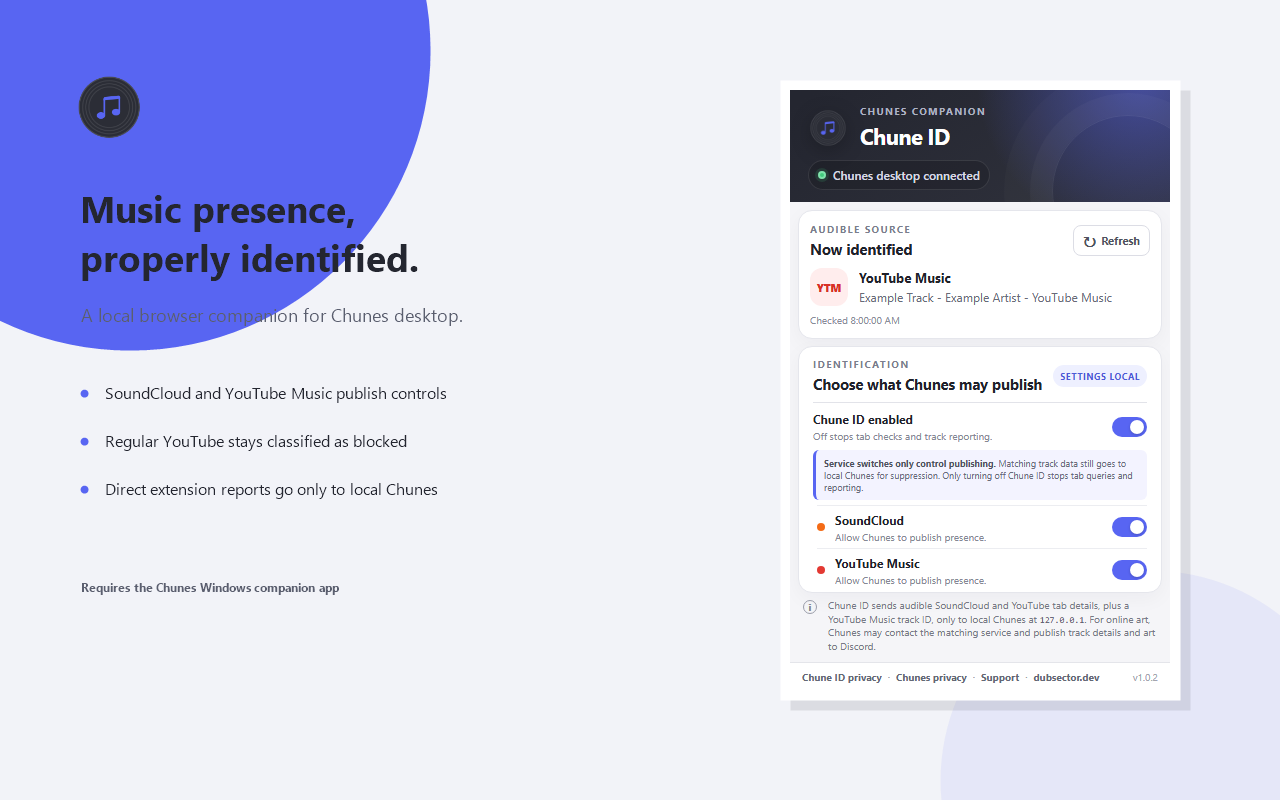
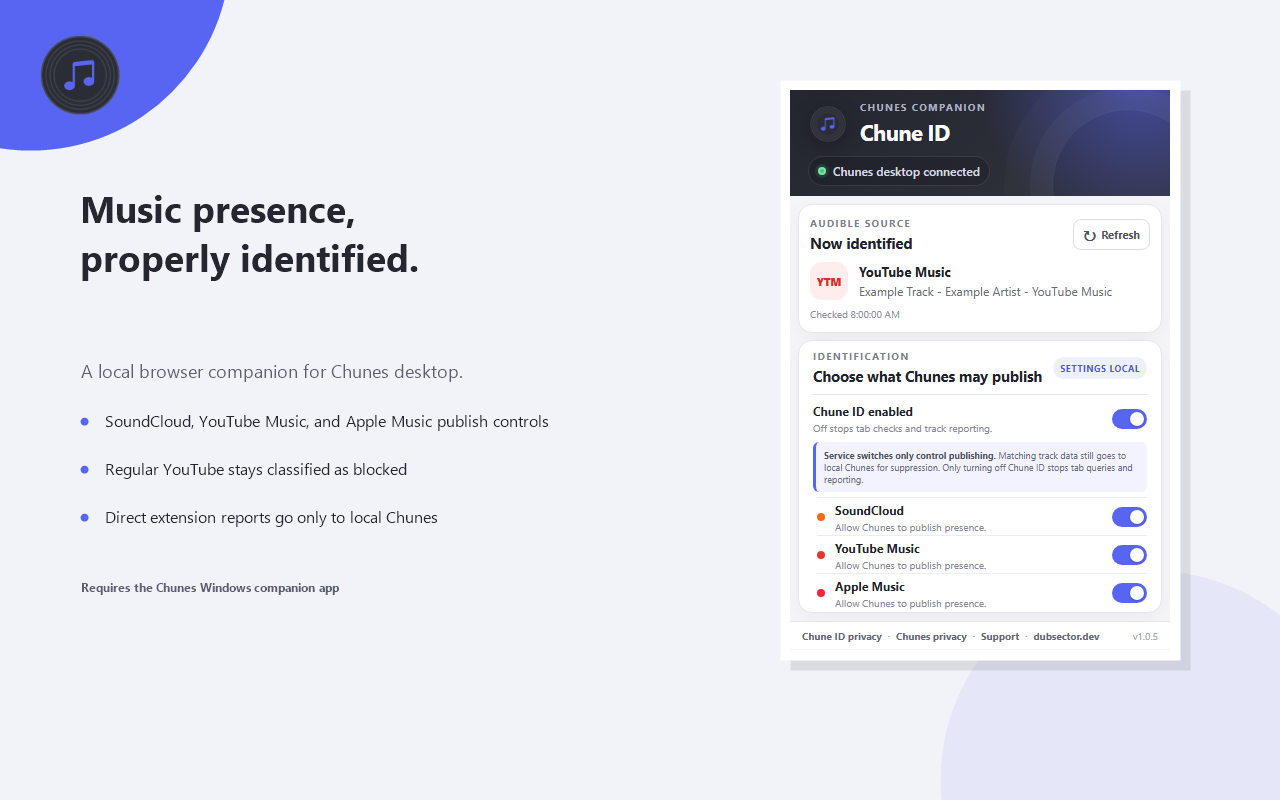
Prepare Chune ID 1.0.5 (#22)
Bumps manifest and popup version to 1.0.5 for the real-track-display
update, moves the store submission material and pinned package hash
forward, and regenerates the store screenshot fixture.

Also fixes the screenshot fixture itself: the subtitle and title text
crossed the decorative circle's edge in ways that ranged from illegible
to just visually awkward, the "CHUNE ID" eyebrow label was rendered
invisible (purple text on the identical purple fill), the popup capture
height didn't match its natural content height leaving a dead zone at
the bottom of the card, and the feature list never mentioned Apple
Music support.

Changed region(s): [[0.0, 0.0, 0.4062, 0.6562], [0.625, 0.4375, 0.9375, 0.875], [0.625, 0.125, 0.9062, 0.4062]]

diff --git a/popup.html b/popup.html
@@ -108,7 +108,7 @@
       <a href="https://github.com/getchunes/chunes-extension/issues" target="_blank" rel="noreferrer">Support</a>
       <span aria-hidden="true">&middot;</span>
       <a href="https://dubsector.dev" target="_blank" rel="noreferrer">dubsector.dev</a>
-      <span class="version">v1.0.4</span>
+      <span class="version">v1.0.5</span>
     </footer>
   </body>
 </html>

diff --git a/store/DASHBOARD_CHECKLIST.md b/store/DASHBOARD_CHECKLIST.md
@@ -3,18 +3,18 @@
 These steps require a maintainer in the Chrome Web Store dashboard and are not
 performed by the release scripts.
 
-## Version 1.0.4 Coordination
+## Version 1.0.5 Coordination
 
-- [ ] Leave the previously submitted Chrome Web Store version 1.0.0 and the immutable 1.0.0, 1.0.1, 1.0.2, and 1.0.3 GitHub artifacts unchanged.
-- [ ] Confirm `manifest.json` and the popup both show version 1.0.4.
-- [ ] Confirm the new GitHub `v1.0.4` release is immutable and its tag resolves to the reviewed release commit.
-- [ ] Confirm the matching Chunes desktop 1.0.1 release uses protocol 2 and clearly states whether its MSI is signed or unsigned manual-only.
+- [ ] Leave the previously submitted Chrome Web Store version 1.0.0 and the immutable 1.0.0, 1.0.1, 1.0.2, 1.0.3, and 1.0.4 GitHub artifacts unchanged.
+- [ ] Confirm `manifest.json` and the popup both show version 1.0.5.
+- [ ] Confirm the new GitHub `v1.0.5` release is immutable and its tag resolves to the reviewed release commit.
+- [ ] Confirm the matching Chunes desktop release uses protocol 2 and clearly states whether its MSI is signed or unsigned manual-only.
 
 ## Package
 
 - [ ] Run `scripts/validate.ps1`, `scripts/package.ps1`, and `scripts/validate-package.ps1` from the repository root.
-- [ ] Upload `dist/chune-id-1.0.4.zip` and confirm the dashboard detects Manifest V3, version 1.0.4, and minimum Chrome version 120.
[1 lines of base64/hex data omitted]
+- [ ] Upload `dist/chune-id-1.0.5.zip` and confirm the dashboard detects Manifest V3, version 1.0.5, and minimum Chrome version 120.
[1 lines of base64/hex data omitted]
 
 ## Store Listing
 

diff --git a/store/SUBMISSION.md b/store/SUBMISSION.md
@@ -11,7 +11,7 @@ copy:
 
 ## Reviewed Runtime Contract
 
-- Manifest V3, version 1.0.4, minimum Chrome version 120
+- Manifest V3, version 1.0.5, minimum Chrome version 120
 - Permissions limited to `alarms`, `storage`, loopback, SoundCloud, YouTube, and Apple Music hosts
 - `application/json` POSTs to `http://127.0.0.1:52846/tabs`
 - Exact top-level payload keys: `enabled`, `services`, and `tabs`
@@ -36,10 +36,10 @@ title/artist for Apple Music artwork. Use both public policies in the dashboard:
 ## Release Coordination
 
 Version 1.0.0 has already been submitted to the Chrome Web Store. The immutable
-1.0.0, 1.0.1, 1.0.2, and 1.0.3 GitHub artifacts remain unchanged. This
-submission is the separate 1.0.4 popup-restore and Apple Music disclosure update
-and must use a newly built `chune-id-1.0.4.zip` with SHA-256
[1 lines of base64/hex data omitted]
+1.0.0, 1.0.1, 1.0.2, 1.0.3, and 1.0.4 GitHub artifacts remain unchanged. This
+submission is the separate 1.0.5 real-track-display update and must use a
+newly built `chune-id-1.0.5.zip` with SHA-256
[1 lines of base64/hex data omitted]
 
 Chunes desktop 1.0.1 is the matching protocol-2 companion. Its release-specific
 notice labels the immutable MSI as an unsigned manual release. Chrome reviewers